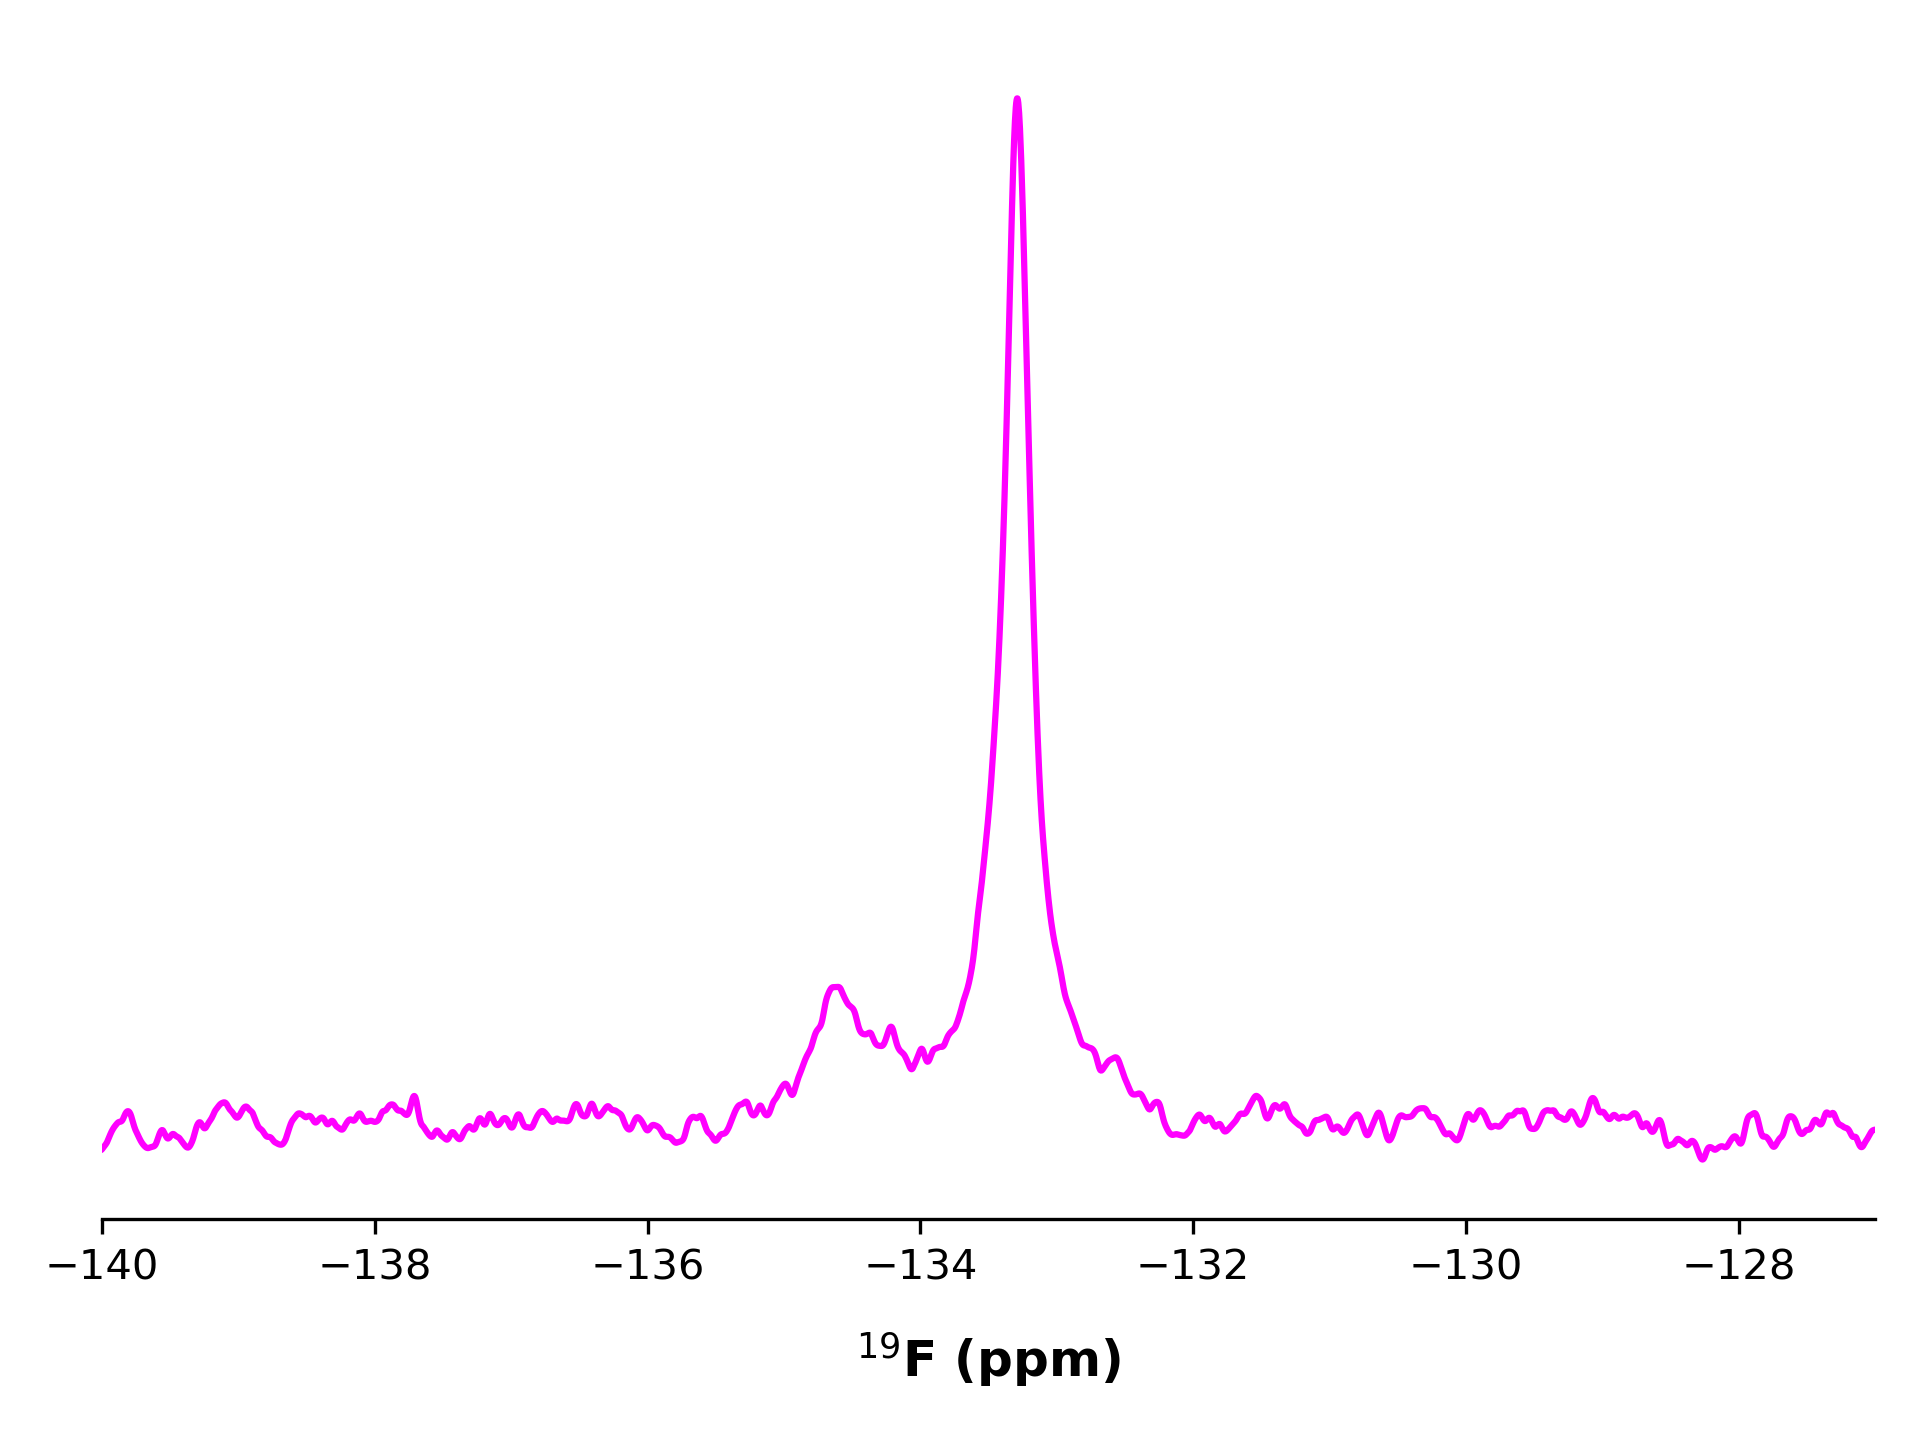
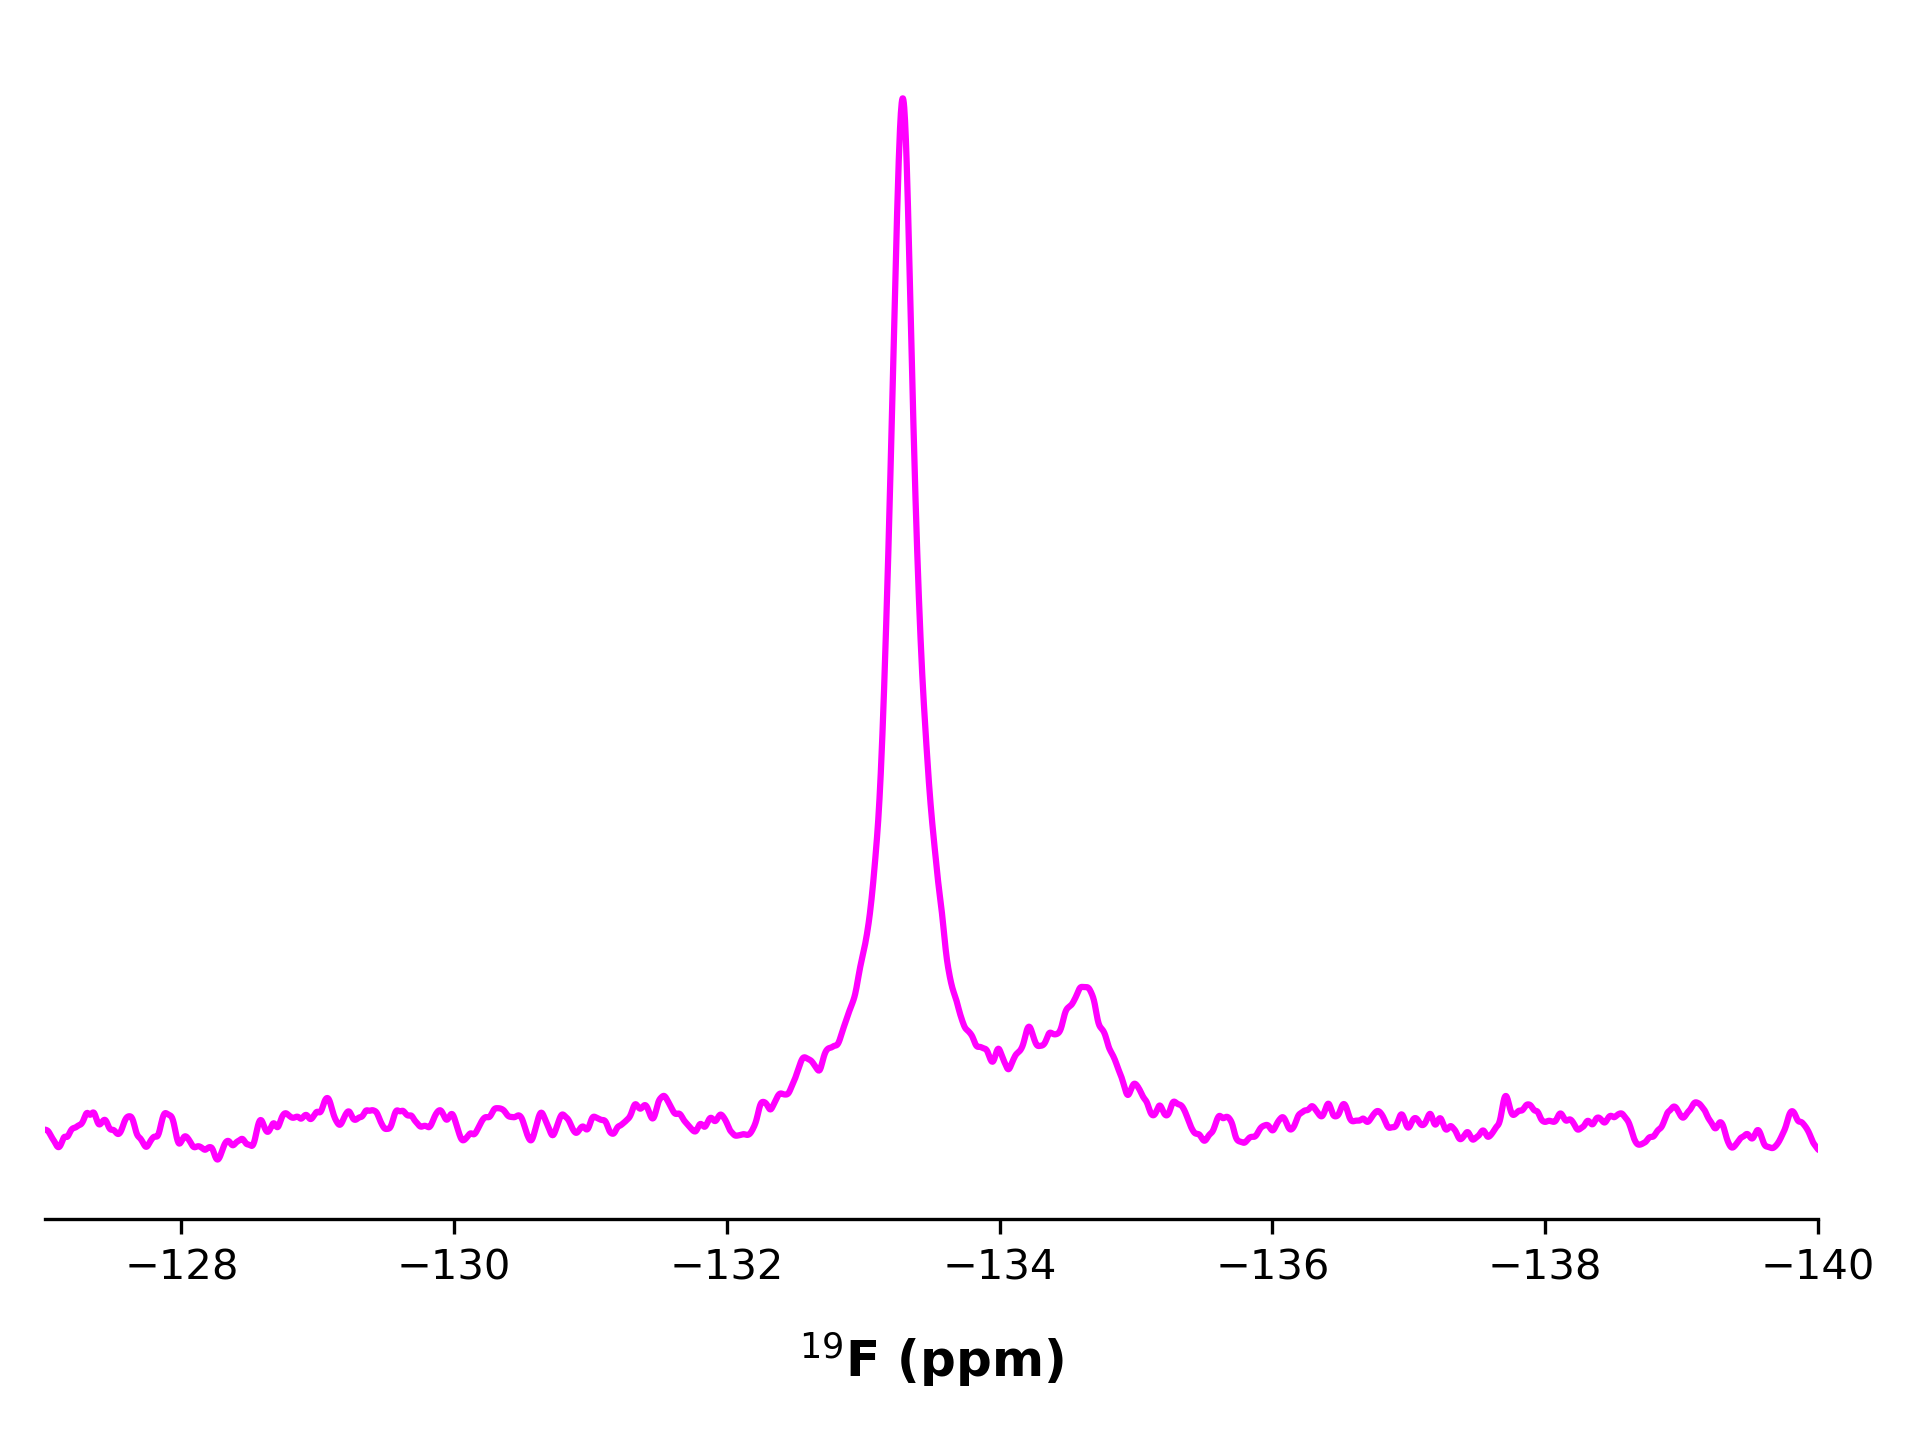
updated 19F 1d axis reversal

diff --git a/ctd/1d_nmr_plot.py b/ctd/1d_nmr_plot.py
@@ -80,8 +80,8 @@ fig, ax = plt.subplots()
 # plt.legend(prop={'size': 12})
 
 #plot_1d("600-2/DTY-CaCTD-F-12152022/10/test.DAT", ax=ax, label=f"{f_pos} 512NS", xlim=(-117, -135))
-plot_1d("600-2/DTY-CaCTD-F-12152022/21/test.DAT", ax=ax, label=f"{f_pos}", xlim=(-127, -140))
+plot_1d("600-2/DTY-CaCTD-F-12152022/23/test.DAT", ax=ax, label=f"{f_pos}", xlim=(-140, -127))
 
 fig.tight_layout()
 plt.show()
-fig.savefig(f"figures/1d_ctd_{f_pos}_200uM.png", dpi=300, transparent=True)
+fig.savefig(f"figures/1d_ctd_{f_pos}_2mM_512NS.png", dpi=300, transparent=True)
